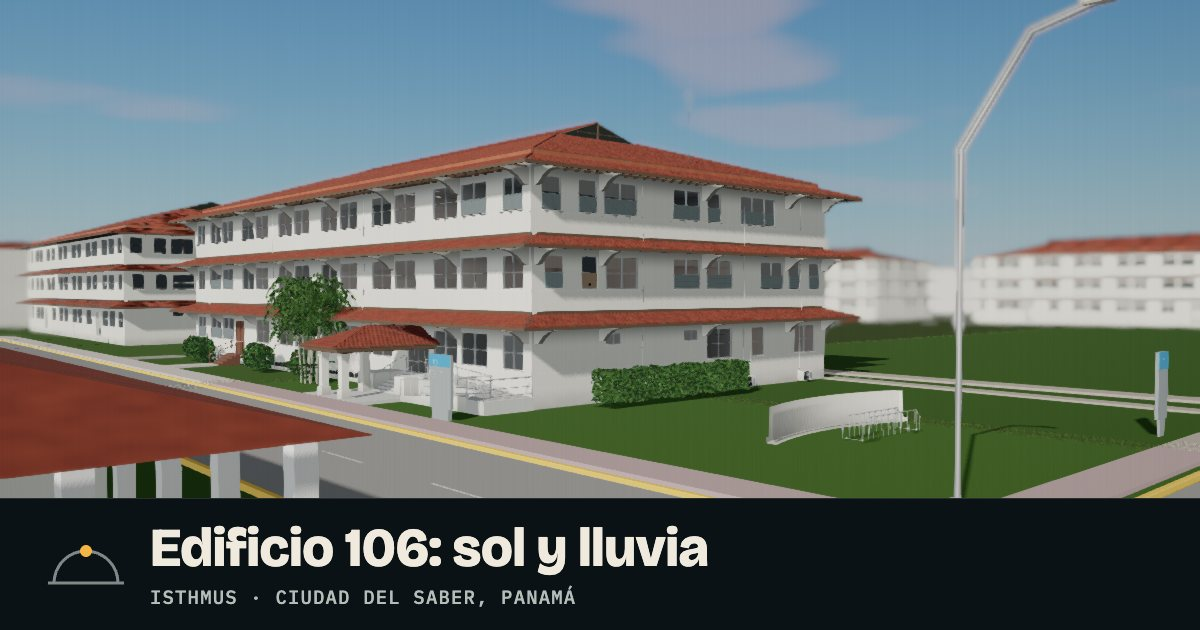
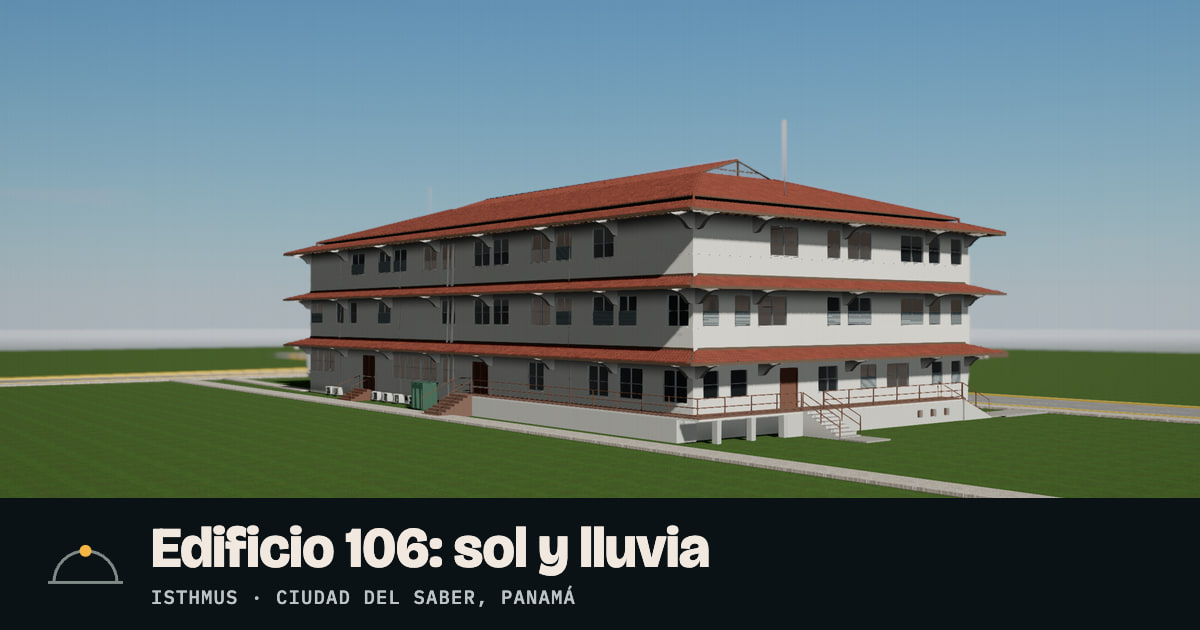
fix(og): vista previa con el 106 solo, sin nada de Street View
La imagen anterior mostraba La Casa y los vecinos de contexto.glb, que
salen de Street View. Ahora fuente/og.mjs la dibuja con el reloj
congelado, el 29 de febrero de 2020 a las 16:00 (ERA5 sin nubes ni
lluvia), desde el oeste: fachada noroeste y testero suroeste, sin la
entrada. Oculta contexto, entrada (el pórtico), vegetacion y árboles,
y no pide la ciudad ni los postes. La franja del título copia la de
antes. Se actualizan el texto alternativo y TERCEROS.md.

diff --git a/fuente/cuerpo.html b/fuente/cuerpo.html
@@ -15,7 +15,7 @@
 <meta property="og:image:type" content="image/jpeg">
 <meta property="og:image:width" content="1200">
 <meta property="og:image:height" content="630">
-<meta property="og:image:alt" content="Captura del visor: el Edificio 106 en Ciudad del Saber el 15 de enero de 2024 a las 9:00, con el título Edificio 106: sol y lluvia.">
+<meta property="og:image:alt" content="Vista del visor: el Edificio 106 solo, sin el entorno, el 29 de febrero de 2020 a las 16:00, con la fachada noroeste en sombra y el testero suroeste al sol de la tarde, y el título Edificio 106: sol y lluvia.">
 <meta name="twitter:card" content="summary_large_image">
 <script type="application/ld+json">
 {

diff --git a/index.html b/index.html
@@ -16,7 +16,7 @@
 <meta property="og:image:type" content="image/jpeg">
 <meta property="og:image:width" content="1200">
 <meta property="og:image:height" content="630">
-<meta property="og:image:alt" content="Captura del visor: el Edificio 106 en Ciudad del Saber el 15 de enero de 2024 a las 9:00, con el título Edificio 106: sol y lluvia.">
+<meta property="og:image:alt" content="Vista del visor: el Edificio 106 solo, sin el entorno, el 29 de febrero de 2020 a las 16:00, con la fachada noroeste en sombra y el testero suroeste al sol de la tarde, y el título Edificio 106: sol y lluvia.">
 <meta name="twitter:card" content="summary_large_image">
 <script type="application/ld+json">
 {

diff --git a/TERCEROS.md b/TERCEROS.md
@@ -54,7 +54,9 @@ Hasta que se vuelva a observar en sitio, la fuente de estos datos sigue diciendo
 - el pórtico del 106: `fuente/portico.mjs` lo corrigió con la foto WA0014 y dos acercamientos de Street View. Está en `modelo/entrada.glb`, en `ar/modelo/entrada.glb` (el mismo archivo), en `ar/quicklook/edificio-106.usdz` (que `ar/generar-usdz.mjs` arma con el grupo `entrada`) y en el 5 % de los puntos de `datos/intro.bin.gz`;
 - `modelo/arboles.glb` y `arboles_movil.glb`: los 13 árboles cercanos se confirmaron en Street View (`fuente/arboles_reales.json`) y 28 copas se dejaron fuera porque Street View no las confirma (`fuente/arboles_excluidos.json`);
 - la ciudad: `fuente/ciudad-observado.json`, `fuente/ciudad-ajustes.json`, `fuente/ciudad-datos.mjs`, `docs/ciudad/edificios.json`, `datos/ciudad_mapa.json` y `modelo/ciudad*.glb`;
-- siguen a `contexto.glb`: `datos/postes.json` (sus posiciones esquivan las huellas de `datos/ciudad_mapa.json` y los troncos de `arboles.glb`) e `img/og.jpg` (muestra La Casa y los vecinos de `contexto.glb`).
+- sigue a `contexto.glb`: `datos/postes.json` (sus posiciones esquivan las huellas de `datos/ciudad_mapa.json` y los troncos de `arboles.glb`).
+
+`img/og.jpg`, la vista previa para redes, ya no sale de nada de esto: `fuente/og.mjs` la dibuja con el 106 solo (arquitectura, ventanas, cubiertas, detalles y el suelo del sitio) y oculta `contexto.glb`, `entrada.glb` (por el pórtico), `vegetacion.glb` y los árboles, sin pedir la ciudad ni los postes. La luz es la del sol calculado para el 29 de febrero de 2020 a las 16:00 con el dato ERA5.
 
 Aparte del pórtico, `fuente/quitar-cruz.mjs` quitó de `entrada.glb` dos vigas sueltas, acostadas al otro lado de la calle, porque Street View no muestra nada ahí.
 
